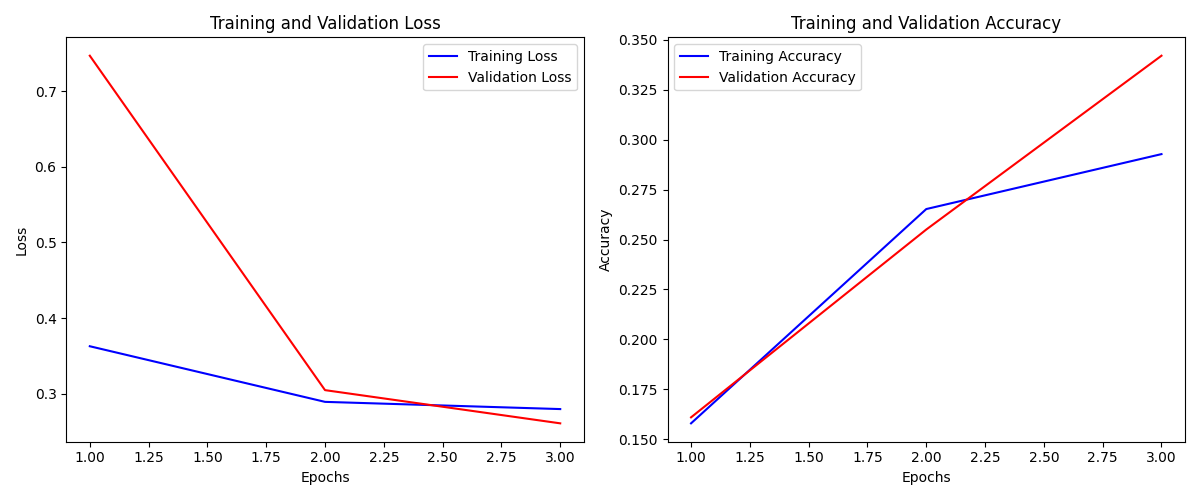
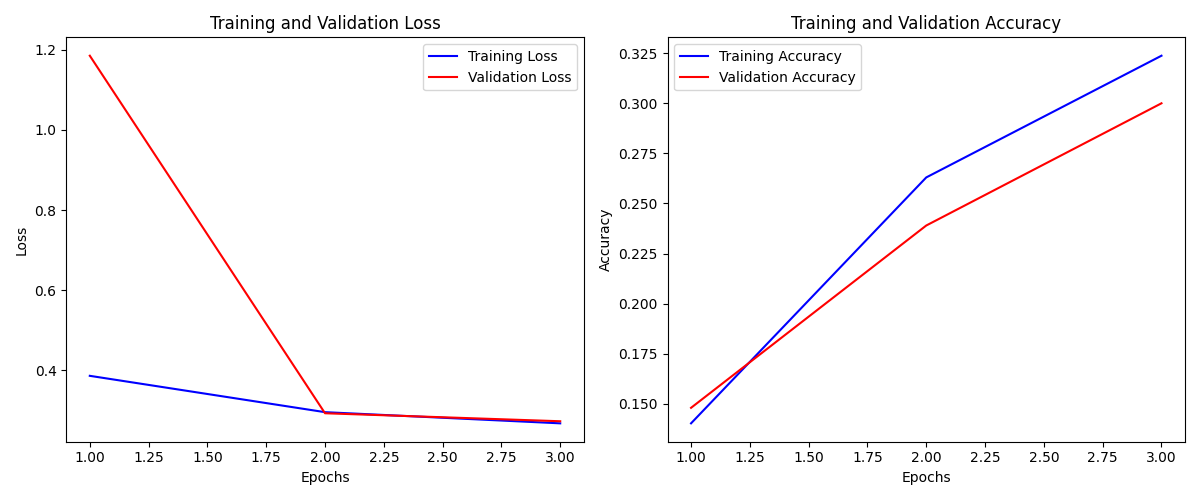
Update project docs, scripts and add new mixup test iterations

diff --git a/v2_mixup_test_t3_251126_1629.py b/v2_mixup_test_t3_251126_1629.py
@@ -103,42 +103,14 @@ model = model.to(device)
 
 scaler = GradScaler()
 # criterion = nn.CrossEntropyLoss(label_smoothing=0.1)
-criterion = nn.BCEWithLogitsLoss()
+# Mixup 전용 손실함수 (Soft Target Cross Entropy)
+def mixup_criterion(pred, target):
+    return torch.mean(-torch.sum(target * torch.nn.functional.log_softmax(pred, dim=1), dim=1))
+
+criterion = mixup_criterion
 optimizer = torch.optim.AdamW(model.parameters(), lr=0.01, weight_decay=0.0001)
 scheduler = CosineAnnealingLR(optimizer, T_max=10, eta_min=0.001)
 mixup = v2.MixUp(alpha=1.0, num_classes=10)
-
-# Mixup 스냅샷 저장 함수
-def save_mixup_snapshot(orig_x, orig_y, mixed_x, mixed_y, mean, std, num_samples=5):
-    inv_mean = [-m/s for m, s in zip(mean, std)]
-    inv_std = [1/s for s in std]
-    inv_normalize = v2.Normalize(mean=inv_mean, std=inv_std)
-    
-    orig_x = inv_normalize(orig_x).cpu()
-    mixed_x = inv_normalize(mixed_x).cpu()
-    
-    plt.figure(figsize=(15, 8))
-    for i in range(min(num_samples, orig_x.size(0))):
-        # 원본
-        plt.subplot(2, num_samples, i + 1)
-        plt.imshow(orig_x[i].permute(1, 2, 0).clamp(0, 1))
-        plt.axis('off')
-        plt.title(f"Original\nLabel: {orig_y[i].item()}")
-        
-        # Mixup
-        plt.subplot(2, num_samples, num_samples + i + 1)
-        plt.imshow(mixed_x[i].permute(1, 2, 0).clamp(0, 1))
-        plt.axis('off')
-        
-        probs, indices = torch.topk(mixed_y[i], k=2)
-        label_str = f"Mixup\nCls {indices[0].item()}: {probs[0].item():.2f}\nCls {indices[1].item()}: {probs[1].item():.2f}"
-        plt.title(label_str, fontsize=9)
-        
-    plt.tight_layout()
-    save_path = get_unique_filename('mixup_training_snapshot.png')
-    plt.savefig(save_path)
-    plt.close()
-    print(f"훈련 중 Mixup 스냅샷 저장 완료: {save_path}")
 
 # train 함수
 def train_one_epoch(model, loader, epoch):
@@ -149,16 +121,8 @@ def train_one_epoch(model, loader, epoch):
     for i, (x, y) in enumerate(pbar):
         x, y = x.to(device), y.to(device)
         
-        # 첫 에폭의 첫 배치에서만 스냅샷 저장
-        if epoch == 1 and i == 0:
-            x_orig = x.clone()
-            y_orig = y.clone()
-            
         x, y = mixup(x, y)
         
-        if epoch == 1 and i == 0:
-            save_mixup_snapshot(x_orig, y_orig, x, y, mean, std)
-
         optimizer.zero_grad()              
 
         out = model(x)         
@@ -247,60 +211,3 @@ plt.tight_layout()
 save_path = get_unique_filename('model_acc.png')
 plt.savefig(save_path)
 plt.show()
-
-# ---------------------------------------------------------
-# Mixup 이미지 시각화 (수정됨)
-# ---------------------------------------------------------
-def visualize_mixup_samples(loader, mixup_fn, mean, std, num_samples=5):
-    print("Mixup 이미지 시각화 생성 중...")
-    
-    # 1. 데이터 배치 가져오기
-    x, y = next(iter(loader))
-    x, y = x.to(device), y.to(device)
-    
-    # 원본 복사 (시각화용)
-    orig_x = x.clone()
-    orig_y = y.clone()
-    
-    # 2. Mixup 적용
-    mixed_x, mixed_y = mixup_fn(x, y)
-    
-    # 3. 역정규화 (Un-normalize) 설정
-    inv_mean = [-m/s for m, s in zip(mean, std)]
-    inv_std = [1/s for s in std]
-    inv_normalize = v2.Normalize(mean=inv_mean, std=inv_std)
-    
-    # 4. 시각화 데이터 준비
-    orig_x = inv_normalize(orig_x).cpu()
-    mixed_x = inv_normalize(mixed_x).cpu()
-    
-    plt.figure(figsize=(15, 8))
-    
-    for i in range(min(num_samples, x.size(0))):
-        # --- 원본 이미지 ---
-        img_orig = orig_x[i].permute(1, 2, 0).clamp(0, 1)
-        plt.subplot(2, num_samples, i + 1)
-        plt.imshow(img_orig)
-        plt.axis('off')
-        plt.title(f"Original\nLabel: {orig_y[i].item()}")
-        
-        # --- Mixup 이미지 ---
-        img_mix = mixed_x[i].permute(1, 2, 0).clamp(0, 1)
-        plt.subplot(2, num_samples, num_samples + i + 1)
-        plt.imshow(img_mix)
-        plt.axis('off')
-        
-        # Mixup 라벨 확인 (Top 2 클래스 및 비율 표시)
-        # mixed_y[i]는 one-hot vector (soft label) 상태임
-        probs, indices = torch.topk(mixed_y[i], k=2)
-        label_str = f"Mixup\nCls {indices[0].item()}: {probs[0].item():.2f}\nCls {indices[1].item()}: {probs[1].item():.2f}"
-        plt.title(label_str, fontsize=9)
-        
-    plt.tight_layout()
-    save_path = get_unique_filename('mixup_samples_comparison.png')
-    plt.savefig(save_path)
-    plt.show()
-    print(f"Mixup 비교 이미지 저장 완료: {save_path}")
-
-# 실행
-visualize_mixup_samples(train_loader, mixup, mean, std)

diff --git a/v2_mixup_test_t2_251126_1505.py b/v2_mixup_test_t2_251126_1505.py
@@ -106,7 +106,7 @@ scaler = GradScaler()
 criterion = nn.BCEWithLogitsLoss()
 optimizer = torch.optim.AdamW(model.parameters(), lr=0.01, weight_decay=0.0001)
 scheduler = CosineAnnealingLR(optimizer, T_max=10, eta_min=0.001)
-mixup = v2.MixUp(alpha=1.0, num_classes=10)
+mixup = v2.MixUp(alpha=3.0, num_classes=10)
 
 # Mixup 스냅샷 저장 함수
 def save_mixup_snapshot(orig_x, orig_y, mixed_x, mixed_y, mean, std, num_samples=5):

diff --git a/experiments.md b/experiments.md
@@ -1,9 +1,3 @@
-# v2.mixup 구현 실험 로그 🧪
-
-## 📋 프로젝트 개요
-PyTorch의 `v2.mixup` 기능을 테스트하고 검증하는 프로젝트
-
----
 
 ## 🔬 실험 기록
 
@@ -95,23 +89,124 @@ self.img_path = [p for p in glob(f"{data_path}/train_data/*.png")
 
 ---
 
-## 📊 실험 결과 요약
+#### 구현 내용 🛠
+1. **Mixup 비교 시각화 (`visualize_mixup_samples`)**
+   - 원본 이미지 5장 vs Mixup 이미지 5장 비교
+   - 역정규화(Un-normalize)를 통해 원본 색상 복원
+   - Mixup된 라벨의 상위 2개 클래스와 확률 표시 (예: `Cls 3: 0.80, Cls 7: 0.20`)
+   - 결과 저장: `mixup_samples_comparison.png`
 
-| 실험 # | 날짜 | 주요 변경사항 | 결과 | 비고 |
-|--------|------|---------------|------|------|
-| 1 | 2025-11-26 | 초기 설정 및 문제 발견 | 완료 | 데이터 정합성 문제 해결 |
-| 2 | 2025-11-26 | Mixup 설정 오류 디버깅 | 진행 중 | Mixup 설정 문제 추정 |
-| 3 | 2025-11-28 | Mixup 시각화 구현 | 완료 | 원본 vs Mixup 비교 및 학습 중 스냅샷 저장 |
+2. **학습 중 스냅샷 저장 (`save_mixup_snapshot`)**
+   - `train_one_epoch` 함수 수정하여 첫 에폭의 첫 배치 데이터 캡처
+   - 실제 학습 루프 내에서 Mixup이 적용되는 순간을 포착
+   - 결과 저장: `mixup_training_snapshot.png`
+
+#### 결과 ✅
+- Mixup이 정상적으로 작동함을 시각적으로 검증 완료
+- 두 이미지가 겹쳐 보이고, 라벨 확률도 그에 맞게 혼합됨을 확인
+
+#### 발견한 문제점 (Issues) 🐛
+- **시각화의 한계**: 현재 시각화된 이미지는 최종 출력(Un-normalized) 형태이므로, 실제 연산에 사용되는 Raw Mixup 텐서 상태를 완벽하게 대변하지 못할 수 있음. (추후 수정 예정)
 
 ---
 
-### 실험 #3: Mixup 시각화 구현
-**날짜**: 2025-11-28
+## 💡 학습 내용 및 인사이트
+
+### CUDA Assert Error 디버깅
+- `CUDA_LAUNCH_BLOCKING=1` 환경변수로 상세 에러 확인 가능
+- 라벨 값이 클래스 범위를 벗어나면 device-side assert 발생
+- 데이터 로딩 전 항상 라벨 범위 검증 필요
+
+
+## 🔬 실험 기록
+
+### 실험 #1: v2.mixup 기본 기능 테스트
+**날짜**: 2025-11-26
 
 #### 목표
-- Mixup이 적용된 이미지를 눈으로 직접 확인
-- 원본 이미지와 Mixup된 이미지를 비교하여 라벨 혼합 비율 확인
-- 학습 과정(Epoch 1) 중에 실제로 적용되는 Mixup 데이터 캡처
+- v2.mixup이 이미지와 라벨을 올바르게 섞는지 확인
+- 손실 함수(Loss Function)에 믹스된 결과가 반영되는지 확인
+- Optimizer에 믹스된 결과가 반영되는지 확인
+
+#### 설정
+- **모델**: ResNet-18 (pretrained=False)
+- **손실 함수**: CrossEntropyLoss (label_smoothing=0.1)
+- **Optimizer**: AdamW
+- **Scheduler**: CosineAnnealingLR (T_max=100, eta_min=0.001)
+- **Mixed Precision**: GradScaler 사용
+- **데이터**: 커스텀 이미지 데이터셋
+
+#### 발견한 문제점 🐛
+1. **이미지-라벨 불일치 문제**
+   - CSV 파일의 파일 수와 실제 이미지 수가 불일치
+   - 클래스 수도 불일치 발생
+   - **에러**: `CUDA error: device-side assert triggered`
+   
+2. **원인 분석**
+   - CSV에 정의된 라벨 범위가 모델의 출력 클래스 수를 초과
+   - 일부 이미지 파일이 CSV에 누락되거나, 반대로 CSV에는 있지만 실제 파일이 없는 경우 발생
+
+#### 해결 방법 ✅
+```python
+# 1. 실제 클래스 수 확인
+num_classes = train_df['label'].nunique()
+model.fc = nn.Linear(512, num_classes, bias=True)
+
+# 2. CSV에 있는 파일만 필터링
+csv_names = set(train_df['name'])
+self.img_path = [p for p in glob(f"{data_path}/train_data/*.png") 
+                 if Path(p).name in csv_names]
+```
+
+#### 코드 개선사항
+- `glob()` 대신 `Path.glob()` 사용으로 경로 처리 개선
+- 파일명 추출 시 `.split()` 대신 `Path.name` 속성 활용
+
+#### 다음 단계 📌
+- [ ] 데이터셋 정합성 검증 코드 추가
+- [ ] v2.mixup 적용 전후 이미지 시각화
+- [ ] 학습 결과 비교 (mixup 사용 vs 미사용)
+- [ ] 성능 메트릭 기록 (accuracy, loss)
+
+---
+
+### 실험 #2: Mixup 설정 오류 디버깅
+**날짜**: 2025-11-26
+
+#### 목표
+- CUDA device-side assert 오류 원인 파악
+- Mixup 적용 시 발생하는 문제 해결
+
+#### 설정
+- **GPU**: NVIDIA GeForce GTX 1050
+- **CUDA_LAUNCH_BLOCKING**: 1 (디버깅 모드)
+- **데이터셋**: CIFAR-10 (10 classes)
+- **모델 출력**: 10 classes
+
+#### 발견한 문제점 🐛
+1. **CUDA Error 발생**
+   - **에러**: `CUDA error: device-side assert triggered`
+   - 데이터 로딩 및 모델 구조는 정상 확인:
+     - Labels: 0~9 (10개 클래스) ✅
+     - Model output: 10 classes ✅
+   
+2. **추정 원인**
+   - **Mixup 설정이 잘못된 것으로 추정**
+   - Mixup 적용 후 레이블 처리 방식 문제 가능성
+   - CrossEntropyLoss와 mixup된 레이블 간 호환성 문제 의심
+
+#### 현재 상태
+- 🔍 디버깅 진행 중
+- 데이터 및 모델 검증 완료
+- Mixup 코드 부분 점검 필요
+
+#### 다음 단계 📌
+- [ ] Mixup 적용 코드 검토
+- [ ] 손실 함수 계산 부분 확인
+- [ ] Mixup 후 레이블 형식 검증 (float vs int)
+- [ ] One-hot encoding 필요 여부 확인
+
+---
 
 #### 구현 내용 🛠
 1. **Mixup 비교 시각화 (`visualize_mixup_samples`)**
@@ -129,6 +224,9 @@ self.img_path = [p for p in glob(f"{data_path}/train_data/*.png")
 - Mixup이 정상적으로 작동함을 시각적으로 검증 완료
 - 두 이미지가 겹쳐 보이고, 라벨 확률도 그에 맞게 혼합됨을 확인
 
+#### 발견한 문제점 (Issues) 🐛
+- **시각화의 한계**: 현재 시각화된 이미지는 최종 출력(Un-normalized) 형태이므로, 실제 연산에 사용되는 Raw Mixup 텐서 상태를 완벽하게 대변하지 못할 수 있음. (추후 수정 예정)
+
 ---
 
 ## 💡 학습 내용 및 인사이트
@@ -143,6 +241,9 @@ self.img_path = [p for p in glob(f"{data_path}/train_data/*.png")
 - `.name` 속성으로 파일명 추출이 더 명확하고 안전
 
 ---
+
+## 📋 프로젝트 개요
+이 프로젝트는 PyTorch의 `v2.mixup` 기능을 활용하여 데이터 증강(Data Augmentation) 효과를 실험하고 검증합니다. 이미지와 라벨을 섞는 Mixup 연산이 올바르게 수행되는지 시각적으로 확인하고, 학습 과정에서 손실 함수와 옵티마이저에 미치는 영향을 분석합니다.
 
 ## 🔗 참고 자료
 - [PyTorch v2.mixup 문서](https://pytorch.org/vision/stable/transforms.html)

diff --git a/README.md b/README.md
@@ -1,12 +1,3 @@
-# v2.mixup Test Project 🧪
-
-이 프로젝트는 PyTorch의 `v2.mixup` 기능을 테스트하고 검증하기 위해 만들어졌습니다! 🚀
-
-## 🎯 목표
-`v2.mixup`이 이미지를 섞는 연산을 제대로 수행하는지 확인합니다.
-- 🖼 **이미지와 라벨 믹스**: `v2.mixup`이 이미지와 라벨을 올바르게 섞는지 확인
-- 📉 **손실 함수 반영**: 믹스된 결과가 손실 함수(Loss Function)에 잘 반영되는지 확인
-- ⚙ **Optimizer 반영**: 믹스된 결과가 Optimizer에 잘 반영되는지 확인
 
 ## 🛠 사용 방법
 누구나 쉽게 사용할 수 있습니다!
@@ -25,6 +16,10 @@
 - `model_acc.png`: 학습 결과 (Loss/Accuracy) 그래프
 - `mixup_samples_comparison.png`: Mixup 전후 비교 이미지
 - `mixup_training_snapshot.png`: 학습 도중 캡처된 Mixup 스냅샷
+
+## 📝 수정 로그
+- **2025-11-28 12:54**: Mixup 시각화 기능 추가 (원본/Mixup 비교, 학습 스냅샷)
+- **2025-11-26**: 프로젝트 초기 설정 및 기본 기능 구현
 
 ---
 Happy Coding! ✨
